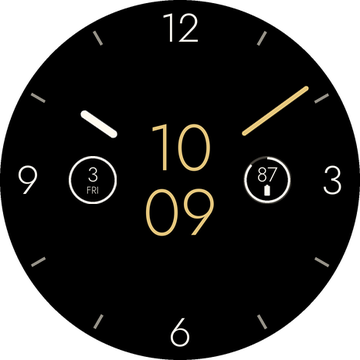
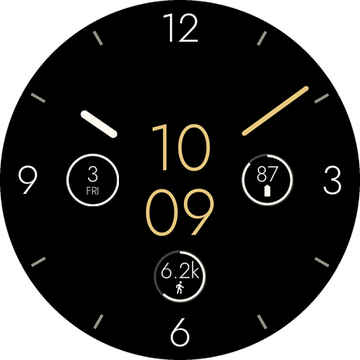
feat(store): show the bottom complication in the store previews
The store pack predated the bottom complication, the larger 1.1.1 badges
and the 1.1.2 weather glyphs. Previews now render all three slots with the
runtime sizes, and the animated GIF cycles through all seven datums.

Changed region(s): [[0.4278, 0.6722, 0.5806, 0.8556], [0.6722, 0.4278, 0.825, 0.5806], [0.1833, 0.4278, 0.3361, 0.5806]]

diff --git a/tools/render-store-assets.py b/tools/render-store-assets.py
@@ -5,7 +5,8 @@ Everything is circular (alpha-masked) per the store requirement:
   store/icon-240.png            240x240 app icon — circular, transparent bg,
                                 no margins (Zepp Console icon spec)
   store/preview-<theme>.png     466x466 dial at 10:09 with the DEFAULT
-                                complications (Date left, Battery right)
+                                complications (Date left, Battery right,
+                                Steps bottom)
   store/preview-aod.png         466x466 AOD look: gray hands + digits only
   store/preview-animated.gif    every theme + complication configs + AOD,
                                 900ms/frame, circular (1-bit transparency)
@@ -14,17 +15,21 @@ Everything is circular (alpha-masked) per the store requirement:
 
 Reuses the renderer in render-assets.py (backgrounds, hands, rings, fonts).
 Badge geometry mirrors the runtime widgets in watchface/index.js
-(makeComplication): value 26px centered at cy-7, weekday 13px / icon 17px
-centered at cy+13, progress fill clockwise from 12 o'clock.
+(makeComplication): value 28px centered at cy-7.5, weekday 14px / icon 18px
+centered at cy+14, progress fill clockwise from 12 o'clock.
+
+Pass an output directory as the first argument to render somewhere other than
+store/ (e.g. to review the pack before replacing it).
 """
 
 import importlib.util
 import os
+import sys
 
 from PIL import Image, ImageDraw, ImageFont
 
 BASE = os.path.dirname(__file__)
-STORE = os.path.join(BASE, "..", "store")
+STORE = sys.argv[1] if len(sys.argv) > 1 else os.path.join(BASE, "..", "store")
 
 spec = importlib.util.spec_from_file_location(
     "render_assets", os.path.join(BASE, "render-assets.py")
@@ -36,16 +41,27 @@ spec.loader.exec_module(ra)
 COMP_LEFT_X = 120
 COMP_RIGHT_X = 346
 COMP_AXIS_Y = ra.CX  # 233 — the horizontal centerline
-COMP_VALUE_SIZE = 26
-COMP_SUB_SIZE = 13
-COMP_ICON_SIZE = 17
-VALUE_DY = -7   # value box y [cy-22, cy+8] -> center
-SUB_DY = 13     # weekday box y [cy+3, cy+23] / icon box y [cy+2, cy+24] -> center
+COMP_BOTTOM_X = ra.CX
+COMP_BOTTOM_Y = ra.CX + 125
+COMP_VALUE_SIZE = 28
+COMP_SUB_SIZE = 14
+COMP_ICON_SIZE = 18
+VALUE_DY = -7.5  # value box y [cy-24, cy+9] -> center
+SUB_DY = 14      # weekday box y [cy+3, cy+25] / icon box y [cy+2, cy+26] -> center
+SLOT_CENTERS = (
+    (COMP_LEFT_X, COMP_AXIS_Y),
+    (COMP_RIGHT_X, COMP_AXIS_Y),
+    (COMP_BOTTOM_X, COMP_BOTTOM_Y),
+)
 
 SCREENSHOT_THEMES = ["champagne", "sapphire", "emerald"]
 SMALL = 360  # documented circular-screen screenshot size
 
 SPEC_BY_DATUM = {s[0]: s for s in ra.COMP_PREVIEW_SPECS}
+# The edit-preview spec still names the pre-1.1.2 weather glyph, which the
+# Material Symbols subset no longer has; the store shows the sunny bucket
+# (WEATHER_CHARS[0] in watchface/weather-icon.js).
+SPEC_BY_DATUM["weather"] = ("weather", "closed", "21\u00b0", None, "\ue81a", 0)
 
 
 def render_badge(datum):
@@ -78,20 +94,20 @@ def render_badge(datum):
     return img.resize((n, n), Image.LANCZOS)
 
 
-DEFAULT_COMPS = ("date", "battery")
+DEFAULT_COMPS = ("date", "battery", "steps")
 
 
 def background_with_badges(background, comps=DEFAULT_COMPS):
     """Badges composite onto the background so render_preview draws the hands
     ON TOP — same z-order as the watch (badge widgets precede TIME_POINTER).
-    `comps` is (left_datum, right_datum); None leaves that slot empty."""
+    `comps` is (left, right, bottom) datums; None leaves that slot empty."""
     bg = background.convert("RGBA").copy()
-    for datum, cx in zip(comps, (COMP_LEFT_X, COMP_RIGHT_X)):
+    for datum, (cx, cy) in zip(comps, SLOT_CENTERS):
         if datum is None:
             continue
         badge = render_badge(datum)
         bg.alpha_composite(
-            badge, (int(cx - ra.COMP_R_OUTER), int(COMP_AXIS_Y - ra.COMP_R_OUTER))
+            badge, (int(cx - ra.COMP_R_OUTER), int(cy - ra.COMP_R_OUTER))
         )
     return bg
 
@@ -127,7 +143,7 @@ def to_gif_frames(images):
 
 def render_gif_frames(hour_hand, plain_background, themes):
     """Story: every theme with the default complications, then the champagne
-    theme across configurations (no badges, activity pair, ambient pair), AOD."""
+    theme across configurations (no badges, activity trio, ambient trio), AOD."""
     default_bg = background_with_badges(plain_background)
     frames = []
 
@@ -141,7 +157,11 @@ def render_gif_frames(hour_hand, plain_background, themes):
     champagne_minute = ra.render_hand(
         ra.MINUTE_TIP_R, ra.MINUTE_VIS_R, ra.MINUTE_W, champagne_rgb + (255,)
     )
-    for comps in ((None, None), ("steps", "hr"), ("weather", "pai")):
+    for comps in (
+        (None, None, None),
+        ("steps", "hr", "calories"),
+        ("weather", "pai", "date"),
+    ):
         bg = background_with_badges(plain_background, comps)
         frames.append(
             ra.render_preview(bg, hour_hand, champagne_minute, champagne_rgb)
